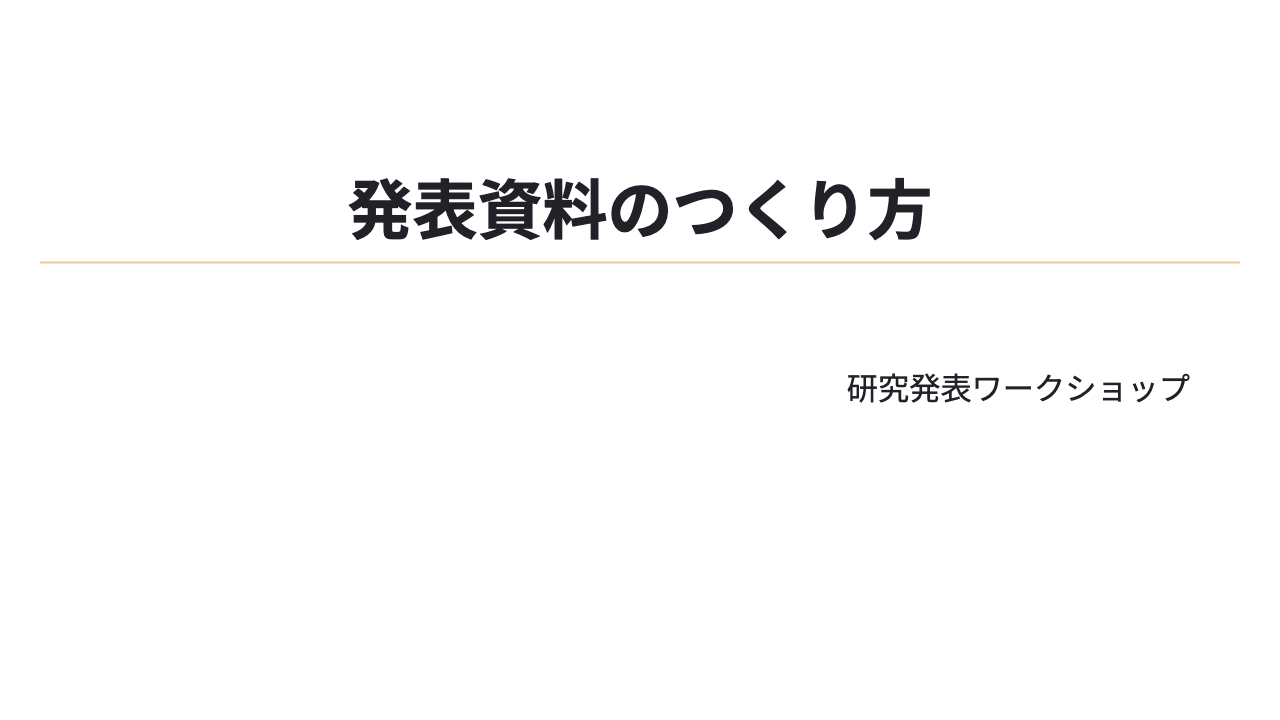
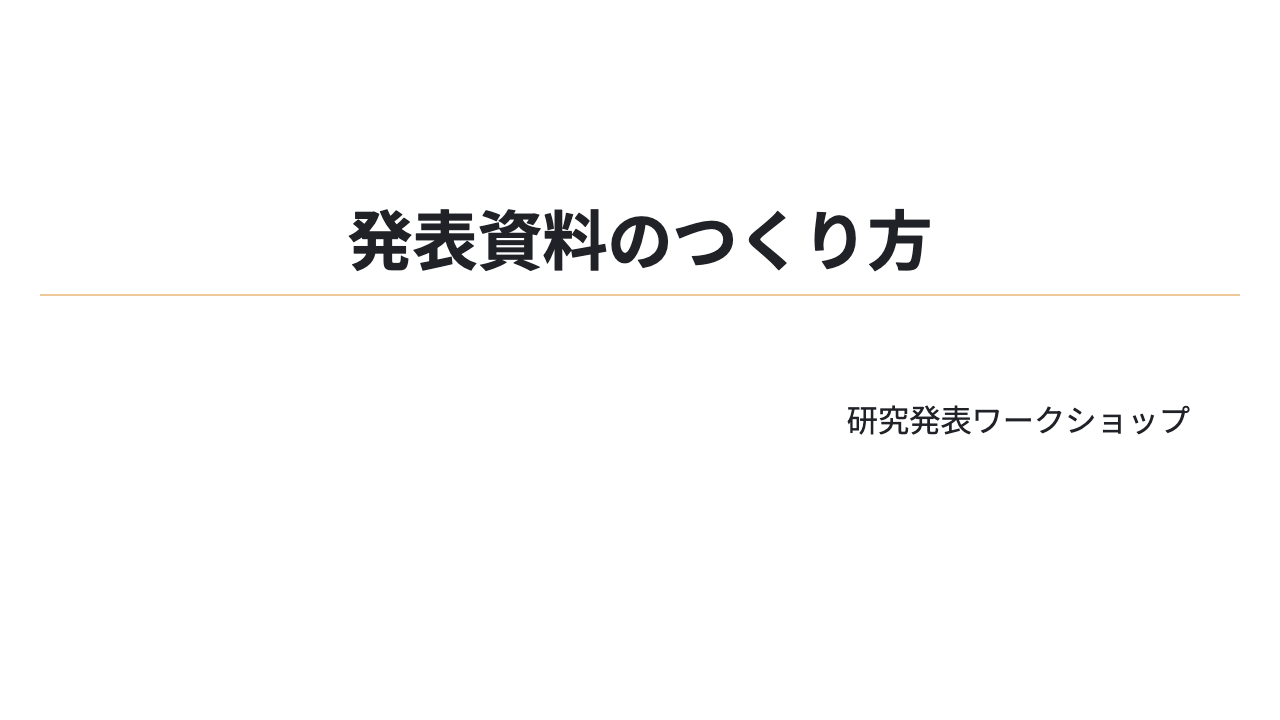
Lower the standard Lab title by 32 pixels

Changed region(s): [[0.0312, 0.2444, 0.9688, 0.3972], [0.6562, 0.5194, 0.9375, 0.6111]]

diff --git a/themes/lab.css b/themes/lab.css
@@ -1965,7 +1965,7 @@ section.title:where(:not(.cover-plain)) {
 section.title:where(:not(.cover-plain)) h1 {
   font-size: 2.5em;
   text-align: center;
-  margin-top: 150px;
+  margin-top: 182px;
   padding-bottom: 20px;
   border-bottom: var(--accent-rule-width) solid var(--accent-rule);
 }

diff --git a/themes/src/lab/_cover.css b/themes/src/lab/_cover.css
@@ -5,7 +5,7 @@ section.title:where(:not(.cover-plain)) {
 section.title:where(:not(.cover-plain)) h1 {
   font-size: 2.5em;
   text-align: center;
-  margin-top: 150px;
+  margin-top: 182px;
   padding-bottom: 20px;
   border-bottom: var(--accent-rule-width) solid var(--accent-rule);
 }
